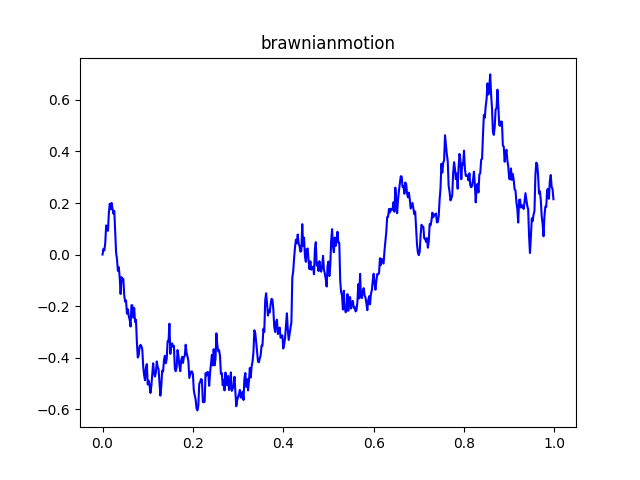
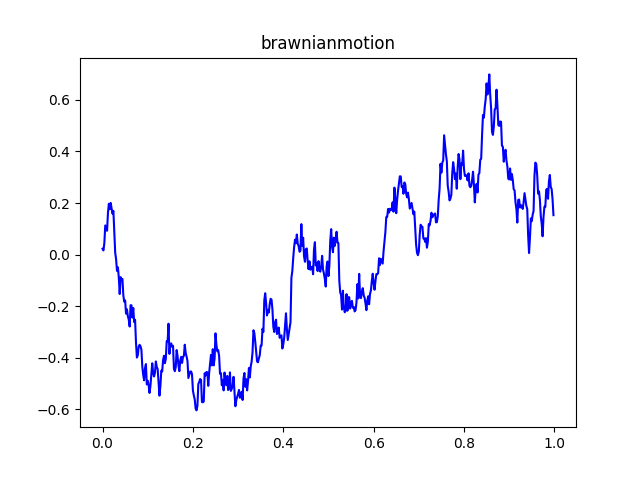
feat:for-->cumsum

Changed region(s): [[0.1875, 0.4688, 0.5938, 0.8438], [0.5938, 0.1562, 0.875, 0.5625], [0.1562, 0.4375, 0.1875, 0.5938]]

diff --git a/brawnianmotion.py b/brawnianmotion.py
@@ -12,12 +12,8 @@ if not os.path.exists(output_folder):
 
 
 T, N = 1, 500
-dt, dW, B = T/N, np.zeros(N), np.zeros(N)
-
-
-for i in range(1, N):
-    dW[i] = np.sqrt(dt)*np.random.randn()
-    B[i] = B[i-1] + dW[i]
+dt = T/N
+B = np.cumsum(np.sqrt(dt)*np.random.randn(N))
 
 
 plt.title(f"{os.path.basename(__file__).split('.')[0]}")
